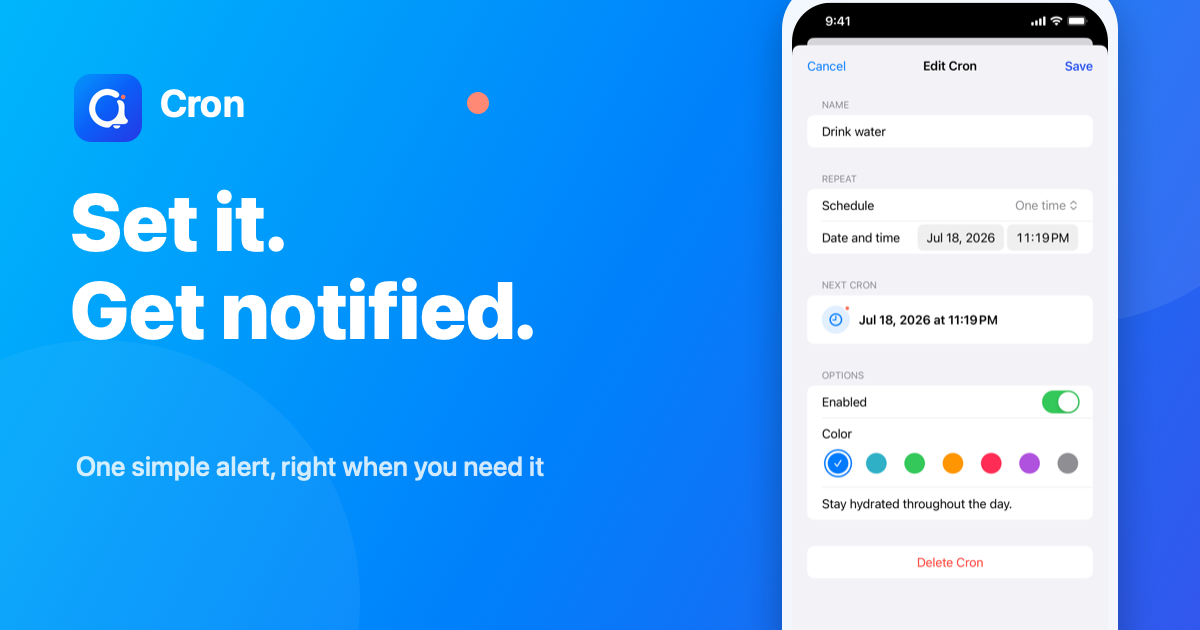
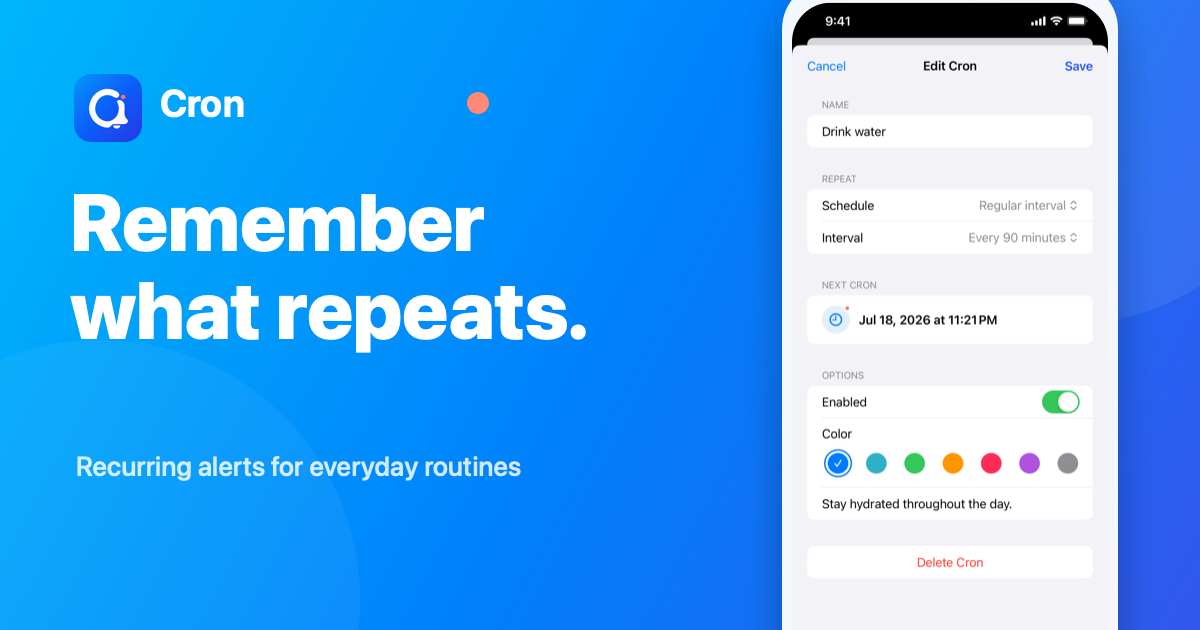
fix: restore Cron recurring alert positioning

diff --git a/cron/index.html b/cron/index.html
@@ -3,19 +3,19 @@
 <head>
   <meta charset="UTF-8">
   <meta name="viewport" content="width=device-width, initial-scale=1.0">
-  <meta name="description" content="Cron is a simple reminder for iPhone. Add a name, choose a time, and get one clear alert. Repeat only when you need it.">
-  <meta name="keywords" content="simple reminder, one time reminder, notification reminder, alert app, iPhone reminder, recurring reminder">
+  <meta name="description" content="Cron is a recurring alert app for iPhone. Set an interval, hourly minute, daily time, or selected weekdays and always see what comes next.">
+  <meta name="keywords" content="recurring alert, interval reminder, hourly alarm, daily reminder, weekday alarm, routine timer, water reminder">
   <meta name="theme-color" content="#076CF8">
   <meta property="og:type" content="website">
-  <meta property="og:title" content="Cron - Set it and get notified">
-  <meta property="og:description" content="Add a name, choose a time, and Cron will notify you. Use it once or repeat only when needed.">
+  <meta property="og:title" content="Cron - Remember what repeats">
+  <meta property="og:description" content="Set recurring alerts for water breaks, stretching, medicine, commutes, and everyday routines.">
   <meta property="og:url" content="https://lucidmaj7.github.io/cron/">
   <meta property="og:image" content="https://lucidmaj7.github.io/cron/images/og.png">
   <meta name="twitter:card" content="summary_large_image">
-  <meta name="twitter:title" content="Cron - Set it and get notified">
-  <meta name="twitter:description" content="Add a name, choose a time, and Cron will notify you. Use it once or repeat only when needed.">
+  <meta name="twitter:title" content="Cron - Remember what repeats">
+  <meta name="twitter:description" content="Set recurring alerts for water breaks, stretching, medicine, commutes, and everyday routines.">
   <meta name="twitter:image" content="https://lucidmaj7.github.io/cron/images/og.png">
-  <title>Cron - Simple Reminder for iPhone</title>
+  <title>Cron - Recurring Alerts for iPhone</title>
   <link rel="canonical" href="https://lucidmaj7.github.io/cron/">
   <link rel="icon" href="images/icon.png">
   <link rel="apple-touch-icon" href="images/icon.png">
@@ -30,7 +30,7 @@
     "name": "Cron",
     "operatingSystem": "iOS 15.0 or later",
     "applicationCategory": "LifestyleApplication",
-    "description": "A simple iPhone reminder. Add a name, choose a time, and get one clear alert. Repeat only when needed.",
+    "description": "A recurring alert app for intervals, hourly times, daily schedules, and selected weekdays.",
     "downloadUrl": "https://apps.apple.com/app/id1491910066",
     "offers": {
       "@type": "Offer",
@@ -59,9 +59,9 @@
             <img src="images/icon.png" alt="" width="64" height="64">
             <span>Cron for iPhone</span>
           </div>
-          <p class="cron-hero__eyebrow"><span aria-hidden="true"></span> Simple alert</p>
-          <h1 id="cron-title" class="cron-hero__title" data-kinetic>Set it.<br>Get notified.</h1>
-          <p class="cron-hero__tagline">Add a name, choose when, and Cron will notify you. Use it once, or repeat only when you need it.</p>
+          <p class="cron-hero__eyebrow"><span aria-hidden="true"></span> Recurring alerts</p>
+          <h1 id="cron-title" class="cron-hero__title" data-kinetic>Remember what<br>repeats.</h1>
+          <p class="cron-hero__tagline">Busy days make recurring things easy to forget. Set Cron for water breaks, stretching, medicine, commutes, or any routine, then see exactly when the next alert will arrive.</p>
           <div class="cron-hero__actions">
             <a href="https://apps.apple.com/app/id1491910066" class="cron-btn cron-btn--primary" target="_blank" rel="noopener noreferrer">Download on the App Store</a>
             <a href="#features" class="cron-btn cron-btn--ghost">Explore features</a>
@@ -71,7 +71,7 @@
 
         <div class="cron-hero__visual" aria-label="Cron app preview">
           <div class="cron-phone">
-            <img src="images/cron-list.png" alt="Cron editor showing a name, alert time, and exact next notification" width="1284" height="2778">
+            <img src="images/cron-list.png" alt="Cron editor showing a 90 minute recurring water alert and the exact next notification" width="1284" height="2778">
           </div>
         </div>
       </div>
@@ -79,8 +79,8 @@
 
     <section class="cron-facts" aria-label="Cron highlights">
       <ul class="cron-facts__inner" role="list">
-        <li><strong>3 quick steps</strong><span>name time save</span></li>
-        <li><strong>One clear alert</strong><span>right when needed</span></li>
+        <li><strong>5 schedules</strong><span>interval to weekdays</span></li>
+        <li><strong>30 to 150 min</strong><span>quick intervals</span></li>
         <li><strong>Exact next alert</strong><span>before you save</span></li>
         <li><strong>On device</strong><span>your Cron details</span></li>
       </ul>
@@ -89,26 +89,26 @@
     <section id="features" class="cron-features reveal" aria-labelledby="features-title">
       <div class="cron-section">
         <header class="cron-section__header">
-          <p class="cron-section__label">Focused by design</p>
-          <h2 id="features-title">One simple job.<br>Right on time.</h2>
-          <p>Cron holds onto a small but important thing and brings it back at exactly the right time.</p>
+          <p class="cron-section__label">Built around your rhythm</p>
+          <h2 id="features-title">Your routine.<br>Your timing.</h2>
+          <p>Choose how often something comes back, and Cron keeps the next alert clear from the moment you save.</p>
         </header>
 
         <ul class="cron-feature-grid reveal--stagger" role="list">
           <li class="cron-feature-card">
-            <div class="cron-feature-card__mark" aria-hidden="true">01</div>
-            <h3>Name the alert</h3>
-            <p>Write the short message you want to see when the notification arrives.</p>
+            <div class="cron-feature-card__mark" aria-hidden="true">90m</div>
+            <h3>Repeat by interval</h3>
+            <p>Start now and repeat every 30, 60, 90, 120, or 150 minutes.</p>
           </li>
           <li class="cron-feature-card">
-            <div class="cron-feature-card__mark" aria-hidden="true">02</div>
-            <h3>Choose when</h3>
-            <p>Pick the time and confirm the exact next alert before you save.</p>
+            <div class="cron-feature-card__mark" aria-hidden="true">:30</div>
+            <h3>Meet the clock</h3>
+            <p>Get an alert every hour at the minute you choose, or every day at a regular time.</p>
           </li>
           <li class="cron-feature-card">
-            <div class="cron-feature-card__mark cron-feature-card__mark--coral" aria-hidden="true">03</div>
-            <h3>Get notified</h3>
-            <p>Use it once, or repeat by interval, day, or weekday only when the alert needs to come back.</p>
+            <div class="cron-feature-card__mark cron-feature-card__mark--coral" aria-hidden="true">M W F</div>
+            <h3>Choose your days</h3>
+            <p>Set recurring alerts for selected weekdays and a specific time.</p>
           </li>
         </ul>
       </div>
@@ -117,23 +117,23 @@
     <section class="cron-showcase" aria-labelledby="showcase-title">
       <div class="cron-section">
         <header class="cron-section__header cron-section__header--light reveal">
-          <p class="cron-section__label">Built for quick alerts</p>
-          <h2 id="showcase-title">From thought to alert<br>in a few taps.</h2>
-          <p>The actual screens keep the path short: add the alert, see when it will fire, and move on.</p>
+          <p class="cron-section__label">Built for recurring moments</p>
+          <h2 id="showcase-title">A clear rhythm.<br>At a glance.</h2>
+          <p>Set the repeating rule, preview the next alert, and keep every active Cron easy to understand.</p>
         </header>
 
         <div class="cron-gallery" aria-label="Cron app screenshots">
           <figure class="reveal">
-            <img src="images/01-routines.jpg" alt="Cron list with the headline Set it and get notified" width="832" height="1800" loading="lazy">
+            <img src="images/01-routines.jpg" alt="Cron list with recurring water stretching and weekly planning alerts" width="832" height="1800" loading="lazy">
           </figure>
           <figure class="reveal">
-            <img src="images/02-repeat.jpg" alt="Cron editor showing the exact next alert" width="832" height="1800" loading="lazy">
+            <img src="images/02-repeat.jpg" alt="Cron editor showing a 90 minute recurring interval" width="832" height="1800" loading="lazy">
           </figure>
           <figure class="reveal">
-            <img src="images/03-weekdays.jpg" alt="Cron editor showing optional weekday repetition" width="832" height="1800" loading="lazy">
+            <img src="images/03-weekdays.jpg" alt="Cron editor showing recurring alerts on selected weekdays" width="832" height="1800" loading="lazy">
           </figure>
           <figure class="reveal">
-            <img src="images/04-simple.jpg" alt="Cron empty state showing the simple first Cron experience" width="832" height="1800" loading="lazy">
+            <img src="images/04-simple.jpg" alt="Cron empty state explaining intervals and regular times" width="832" height="1800" loading="lazy">
           </figure>
         </div>
       </div>
@@ -143,22 +143,22 @@
       <div class="cron-section cron-flow__inner">
         <header class="cron-section__header">
           <p class="cron-section__label">A shorter path</p>
-          <h2 id="flow-title">Three steps.<br>Then move on.</h2>
-          <p>Cron makes the next alert predictable, then stays out of your way until it is time to notify you.</p>
+          <h2 id="flow-title">Set the rhythm.<br>Keep moving.</h2>
+          <p>Cron makes every repeating rule and its next alert predictable before you save.</p>
         </header>
 
         <ol class="cron-steps">
           <li>
             <span>01</span>
-            <div><h3>Name the alert</h3><p>Write what you want Cron to remind you about.</p></div>
+            <div><h3>Name the routine</h3><p>Write the short title you want to see in every notification.</p></div>
           </li>
           <li>
             <span>02</span>
-            <div><h3>Choose the time</h3><p>Set one alert, or add repetition only when you need it.</p></div>
+            <div><h3>Choose the rule</h3><p>Pick an interval, hourly minute, daily time, or selected weekdays.</p></div>
           </li>
           <li>
             <span>03</span>
-            <div><h3>Save and get notified</h3><p>Confirm the exact date and time, save, and get back to your day.</p></div>
+            <div><h3>Check the next alert</h3><p>Confirm the exact date and time, save, and get back to your day.</p></div>
           </li>
         </ol>
       </div>
@@ -179,8 +179,8 @@
       <div class="cron-cta__inner">
         <img src="images/icon.png" alt="Cron app icon" width="112" height="112" loading="lazy">
         <p class="cron-section__label">Cron 2.0</p>
-        <h2 id="cta-title">Choose a time.<br>Get back to life.</h2>
-        <p>Set the alert you need, then get back to what you were doing.</p>
+        <h2 id="cta-title">Keep your rhythm.<br>One Cron at a time.</h2>
+        <p>Set the recurring alert once and let Cron remember what comes next.</p>
         <a href="https://apps.apple.com/app/id1491910066" class="cron-btn cron-btn--primary" target="_blank" rel="noopener noreferrer">Download on the App Store</a>
       </div>
     </section>

diff --git a/index.html b/index.html
@@ -154,7 +154,7 @@
           <span class="app-showcase__number" aria-hidden="true">07</span>
           <div class="app-showcase__content">
             <h2 class="app-showcase__name">Cron</h2>
-            <p class="app-showcase__desc">Choose a time and get one clear alert. Repeat only when needed.</p>
+            <p class="app-showcase__desc">Recurring alerts for water breaks routines and everything that comes back.</p>
             <a href="cron/index.html" class="app-showcase__link">Explore</a>
           </div>
           <div class="app-showcase__visual">
